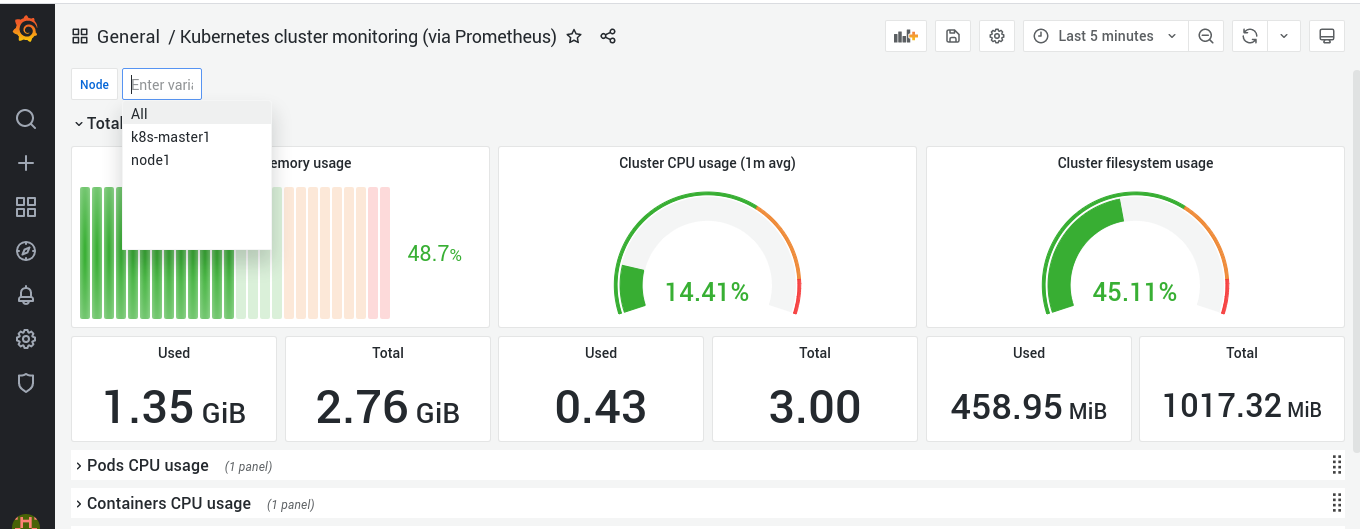
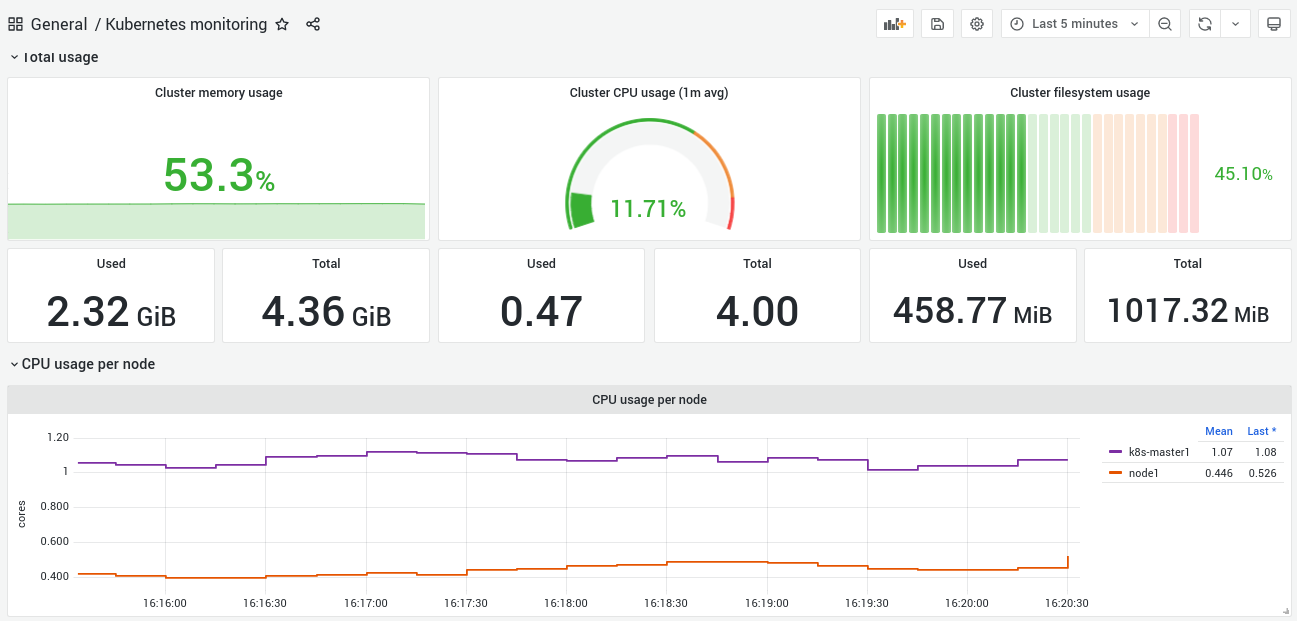
feat: New Dashboard v1.22

diff --git a/README.md b/README.md
@@ -49,6 +49,10 @@ http://$IP:32150/ </pre>
 
 ![Alt text](images/import.png?raw=true "Import")
 
-**We review the Dashboard**
+**Revisa el tablero**
 
 ![Alt text](images/monitoring.png?raw=true "Dashboard")
+
+**pod review in detail**
+
+![Alt text](images/pods.png?raw=true "Dashboard")
